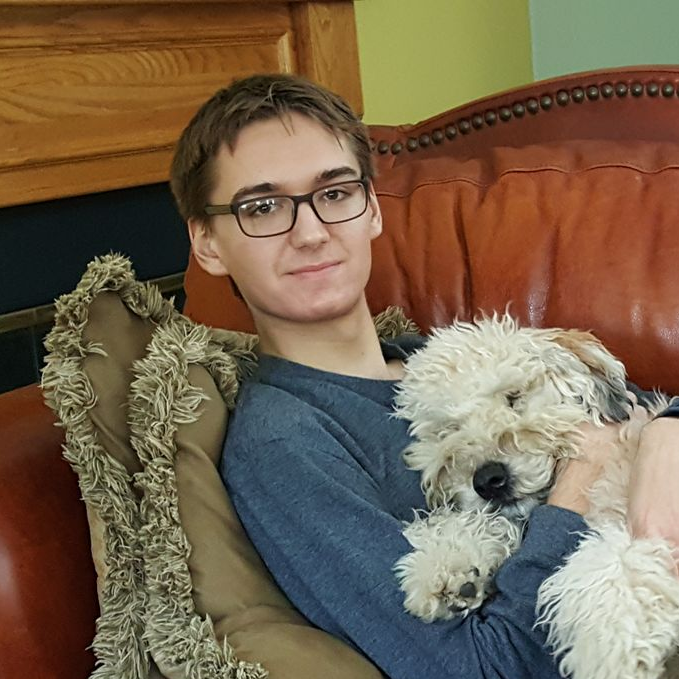
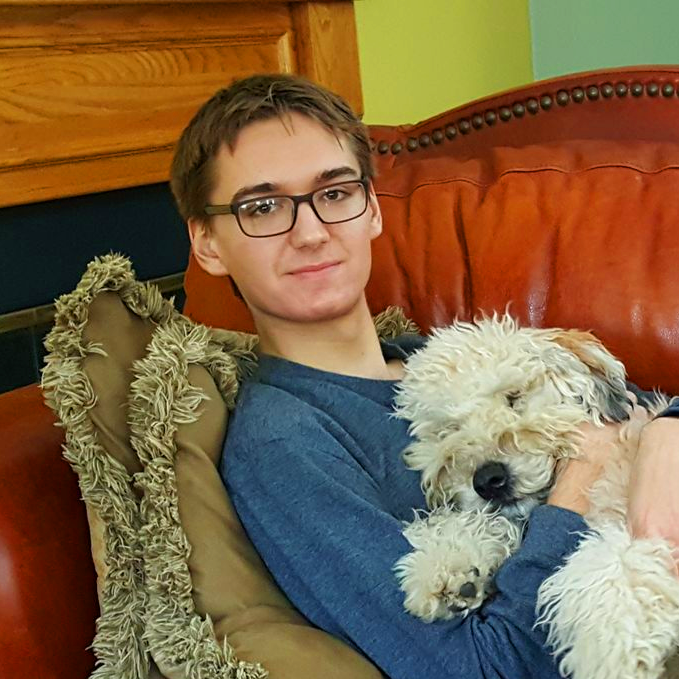
Colored image, fixed saturation.

Changed region(s): [[0.0, 0.0, 0.5567, 0.3093], [0.5567, 0.2165, 1.0, 0.4639]]

diff --git a/css/style.css b/css/style.css
@@ -61,18 +61,9 @@ a:link {
     -webkit-box-shadow: 0 0 8px rgba(0, 0, 0, .8);
     -moz-box-shadow: 0 0 8px rgba(0, 0, 0, .8);
 
-    background: url(../img/me_dog_gray.png) no-repeat;
-    background-size: 300px 300px;
-    margin-bottom: 0.3cm;
-}
-
-.circular:hover {
     background: url(../img/me_dog.png) no-repeat;
     background-size: 300px 300px;
-    -webkit-transition: all 700ms cubic-bezier(0.39, 0.575, 0.565, 1);
-    -moz-transition: all 700ms cubic-bezier(0.39, 0.575, 0.565, 1);
-    -o-transition: all 700ms cubic-bezier(0.39, 0.575, 0.565, 1);
-    transition: all 700ms cubic-bezier(0.39, 0.575, 0.565, 1);
+    margin-bottom: 0.3cm;
 }
 
 .s {
